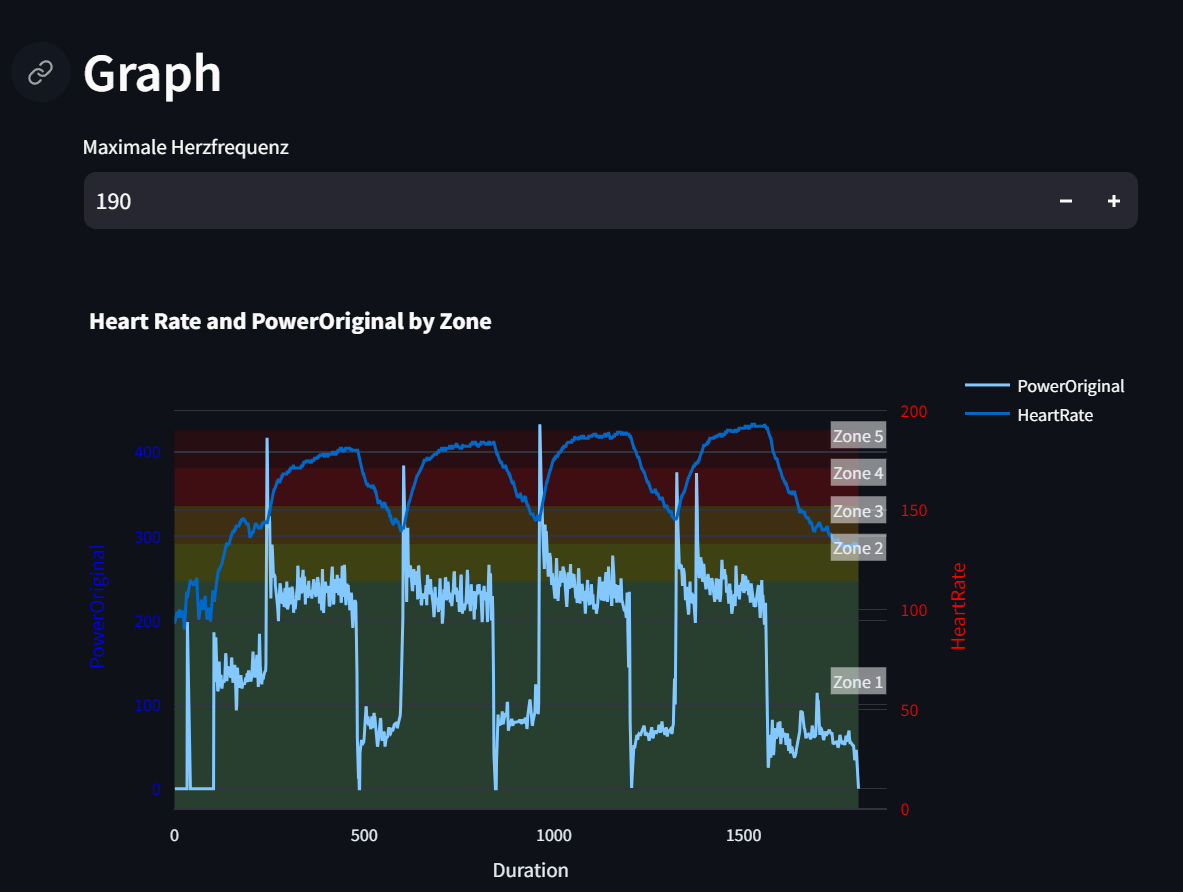
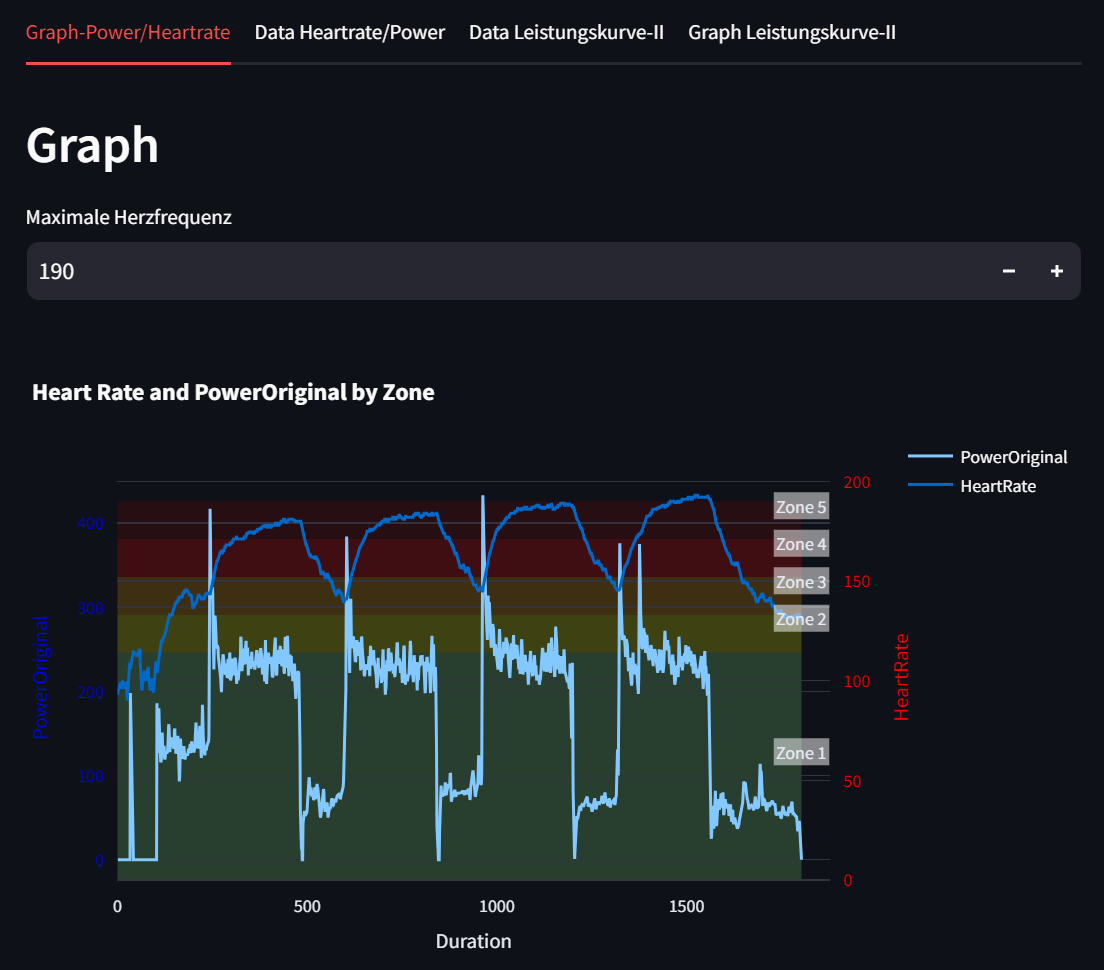
Readme Geschrieben

diff --git a/README.md b/README.md
@@ -3,7 +3,11 @@ Projektmitglieder: Christian Kleber, Matthias Hansen
 
 Es soll ein interaktiver Plot erstellt werden, der die Herzfrequenz und die Leistung in abhängigkeit der Dauer, anhand von fünf Zonen, die abhängig von der maximalen Herzfrequenz sind, darstellt. Außerdem soll die maximale Herzfrequenz durch den Benutzer eingegeben und verändert werden können.
 
-# Requirements
+# Leistungskurve II
+Nun soll eine Leistungskurve erstellt werden, die basierend auf den Leistungen in Watt eine Power-Curve erstellt. Es soll außerdem angezeigt werden um welche Zeit bzw. Dauer es sich handelt. 
+
+
+## Requirements
 folgende Pakete werden benötigt:
 
 siehe ```requirements.txt```
@@ -12,12 +16,18 @@ Diese können mit folgendem Befehl gesammelt installiert werden:
 
 ```pip install -r requirements.txt```
 
-# Beschreibung und Erklärung der App
-Die App kann nach ausführen von main.py über den Befehl ```streamlit run main.py``` aufgerufen werden. Nun kann der interaktive Graph mit den angegebenen Werten eingesehen werden. Der Benutzer kann nun eine maximale Herzfrequenz eingeben, diese darf maximal 220 betragen. Nun können im Bereich Data die verschiedenen Daten eingesehen werden.
+## Beschreibung und Erklärung der App
+Die App kann nach ausführen von main.py über den Befehl ```streamlit run main.py``` aufgerufen werden. Nun kann der interaktive Graph im Bereich ```Graph-Power/Heartrate``` mit den angegebenen Werten eingesehen werden. Der Benutzer kann nun eine maximale Herzfrequenz eingeben, diese darf maximal 220 betragen. Es können im Bereich ```Data Heartrate/Power``` die verschiedenen Daten eingesehen werden. Im Bereich ```Data Leistungskurve-II```können die Daten zu den gegeben Werten eingesehen, die für die Power Curve benörigt werden, die im Bereich ```Graph Leistungskurve-II```eingesehen werden kann. 
 
-# Userinterface
-![Interface Graph](data/pictures/ScreenshotGraph.png)
-![Interface Data](data/pictures/ScreenshotData.png)
+## Userinterface
+![Interface Graph-Power/Heartrate](data/pictures/ScreenshotGraph.png)
+![Interface Data Heartrate/Power](data/pictures/ScreenshotData.png)
+![Interface Data Leistungskurve II](data/pictures/ScreenshotDataLeistungskurveII.png)
+![Interface Graph Leistungskurve-II](data/pictures/ScreenshotGraphLeistungskurveII.png)
+
+
+
+
 
 
 
